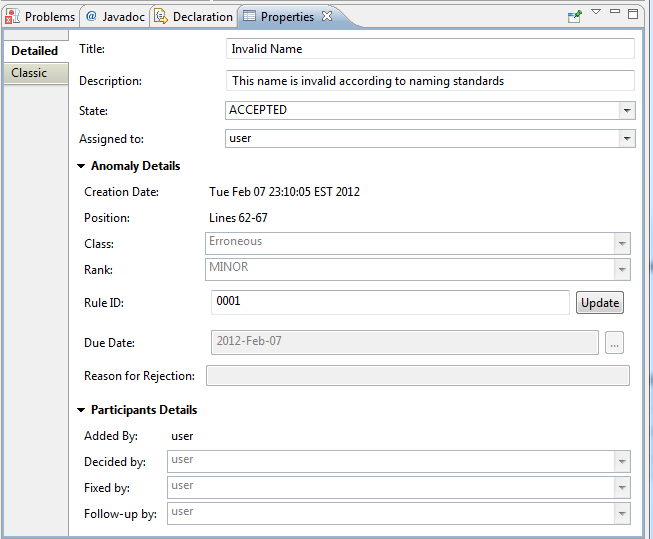
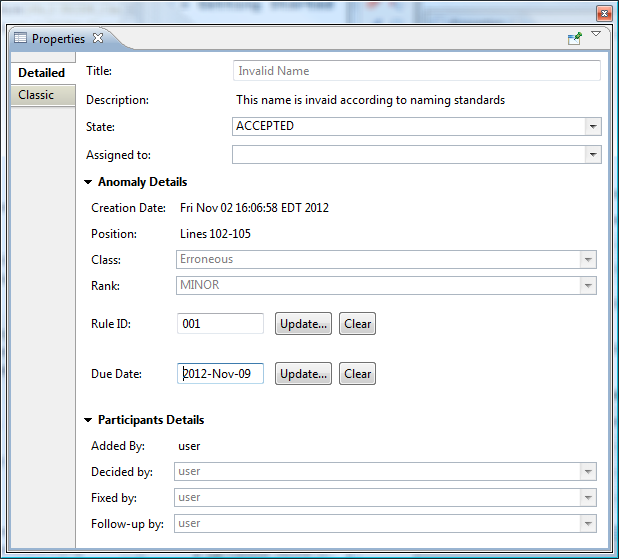
392204: [ui] Need a "Clear" button for the rule set field
Task-Url: https://bugs.eclipse.org/bugs/show_bug.cgi?id=392204

Changed region(s): [[0.0, 0.0, 1.0, 1.0]]

diff --git a/org.eclipse.mylyn.reviews.r4e.ui/src/org/eclipse/mylyn/reviews/r4e/ui/internal/properties/tabbed/AnomalyTabPropertySection.java b/org.eclipse.mylyn.reviews.r4e.ui/src/org/eclipse/mylyn/reviews/r4e/ui/internal/properties/tabbed/AnomalyTabPropertySection.java
@@ -92,6 +92,11 @@ public class AnomalyTabPropertySection extends ModelElementTabPropertySection {
 	 */
 	private static final String PARTICIPANT_DETAILS_SECTION_LABEL = "Participants Details";
 
+	/**
+	 * Field MIN_DATE_TEXT.  Size in pixels of the text for the anomaly due date
+	 */
+	private static final int MIN_DATE_TEXT = 75;
+
 	// ------------------------------------------------------------------------
 	// Member variables
 	// ------------------------------------------------------------------------
@@ -147,14 +152,19 @@ public class AnomalyTabPropertySection extends ModelElementTabPropertySection {
 	protected CCombo fRankCombo = null;
 
 	/**
-	 * Field fRuleId.
+	 * Field fRuleIdText.
 	 */
-	protected Text fRuleId = null;
+	protected Text fRuleIdText = null;
 
 	/**
 	 * Field fRuleButton.
 	 */
 	protected Button fRuleButton = null;
+
+	/**
+	 * Field fClearRuleIdButton.
+	 */
+	protected Button fClearRuleIdButton = null;
 
 	/**
 	 * Field fDateText.
@@ -572,17 +582,27 @@ public class AnomalyTabPropertySection extends ModelElementTabPropertySection {
 		ruleIdLabel.setLayoutData(gridData);
 
 		final Composite ruleComposite = aWidgetFactory.createComposite(anomalyDetailsSectionClient);
-		gridData = new GridData(SWT.FILL, SWT.FILL, true, false);
+		gridData = new GridData(SWT.FILL, SWT.FILL, true, true);
 		gridData.horizontalSpan = 3;
 		ruleComposite.setToolTipText(R4EUIConstants.ANOMALY_RULE_ID_TOOLTIP);
 		ruleComposite.setLayoutData(gridData);
-		ruleComposite.setLayout(new GridLayout(2, false));
+		GridLayout layout = new GridLayout(3, false);
+		layout.marginWidth = 0;
+		ruleComposite.setLayout(layout);
 
-		fRuleId = aWidgetFactory.createText(ruleComposite, "", SWT.NULL);
-		fRuleId.setLayoutData(new GridData(SWT.FILL, SWT.CENTER, true, false));
-		fRuleId.setEditable(false);
-		fRuleButton = aWidgetFactory.createButton(ruleComposite, R4EUIConstants.UPDATE_LABEL, SWT.NONE);
-		fRuleButton.setLayoutData(new GridData(SWT.FILL, SWT.CENTER, false, false));
+		fRuleIdText = aWidgetFactory.createText(ruleComposite, "", SWT.NULL);
+		gridData = new GridData(SWT.CENTER, SWT.CENTER, false, false);
+		//set minimum size
+		gridData.widthHint = MIN_DATE_TEXT;
+		fRuleIdText.setLayoutData(gridData);
+		fRuleIdText.setEditable(false);
+
+		final Composite ruleBottonComposite = aWidgetFactory.createComposite(ruleComposite);
+		ruleBottonComposite.setLayoutData(new GridData(SWT.FILL, SWT.CENTER, true, false));
+		ruleBottonComposite.setLayout(new GridLayout(2, false));
+
+		fRuleButton = aWidgetFactory.createButton(ruleBottonComposite, R4EUIConstants.UPDATE_LABEL, SWT.NONE);
+		fRuleButton.setLayoutData(new GridData(SWT.CENTER, SWT.CENTER, false, false));
 		fRuleButton.addListener(SWT.Selection, new Listener() {
 			public void handleEvent(Event event) {
 				//Modify anomaly
@@ -653,6 +673,28 @@ public class AnomalyTabPropertySection extends ModelElementTabPropertySection {
 			}
 		});
 
+		fClearRuleIdButton = aWidgetFactory.createButton(ruleBottonComposite, R4EUIConstants.CLEAR_LABEL, SWT.NONE);
+		fClearRuleIdButton.setLayoutData(new GridData(SWT.CENTER, SWT.CENTER, false, false));
+		fClearRuleIdButton.addListener(SWT.Selection, new Listener() {
+			public void handleEvent(Event event) {
+				fRuleIdText.setText(""); //$NON-NLS-1$
+				if (!fRefreshInProgress) {
+					try {
+						final String currentUser = R4EUIModelController.getReviewer();
+						final R4EAnomaly modelAnomaly = ((R4EUIAnomalyBasic) fProperties.getElement()).getAnomaly();
+						final Long bookNum = R4EUIModelController.FResourceUpdater.checkOut(modelAnomaly, currentUser);
+						modelAnomaly.setRuleID("");
+						R4EUIModelController.FResourceUpdater.checkIn(bookNum);
+					} catch (ResourceHandlingException e1) {
+						UIUtils.displayResourceErrorDialog(e1);
+					} catch (OutOfSyncException e1) {
+						UIUtils.displaySyncErrorDialog(e1);
+					}
+				}
+				refresh();
+			}
+		});
+
 		//Due Date
 		final CLabel dateLabel = aWidgetFactory.createCLabel(anomalyDetailsSectionClient, R4EUIConstants.DUE_DATE_LABEL);
 		gridData = new GridData(SWT.FILL, SWT.CENTER, false, false);
@@ -661,20 +703,23 @@ public class AnomalyTabPropertySection extends ModelElementTabPropertySection {
 
 		final Composite dateComposite = aWidgetFactory.createComposite(anomalyDetailsSectionClient);
 		gridData = new GridData(SWT.FILL, SWT.FILL, true, true);
-		gridData.horizontalSpan = 2;
+		gridData.horizontalSpan = 3;
 		dateComposite.setToolTipText(R4EUIConstants.ANOMALY_DUE_DATE_TOOLTIP);
 		dateComposite.setLayoutData(gridData);
-		dateComposite.setLayout(new GridLayout(2, false));
+		layout = new GridLayout(2, false);
+		layout.marginWidth = 0;
+		dateComposite.setLayout(layout);
 
-		aWidgetFactory.setBorderStyle(SWT.NULL);
 		fDateText = aWidgetFactory.createText(dateComposite, "", SWT.NULL);
-		fDateText.setLayoutData(new GridData(SWT.CENTER, SWT.CENTER, false, false));
+		gridData = new GridData(SWT.CENTER, SWT.CENTER, false, false);
+		gridData.widthHint = MIN_DATE_TEXT;
+		fDateText.setLayoutData(gridData);
 		fDateText.setEditable(false);
 
 		final Composite dateButtonComposite = aWidgetFactory.createComposite(dateComposite);
 		dateButtonComposite.setLayoutData(new GridData(SWT.FILL, SWT.CENTER, true, true));
 		dateButtonComposite.setToolTipText(R4EUIConstants.ANOMALY_DUE_DATE_TOOLTIP);
-		dateButtonComposite.setLayout(new GridLayout(2, false));
+		dateButtonComposite.setLayout(new GridLayout(3, false));
 
 		fCalendarButton = aWidgetFactory.createButton(dateButtonComposite, R4EUIConstants.UPDATE_LABEL, SWT.NONE);
 		fCalendarButton.setLayoutData(new GridData(SWT.CENTER, SWT.CENTER, false, false));
@@ -952,8 +997,11 @@ public class AnomalyTabPropertySection extends ModelElementTabPropertySection {
 				: rankValue);
 
 		if (null != modelAnomaly.getRuleID()) {
-			fRuleId.setText(modelAnomaly.getRuleID());
+			fRuleIdText.setText(modelAnomaly.getRuleID());
+		} else {
+			fRuleIdText.setText("");
 		}
+
 		if (null != modelAnomaly.getDueDate()) {
 			final SimpleDateFormat dateFormat = new SimpleDateFormat(R4EUIConstants.SIMPLE_DATE_FORMAT);
 			fDateText.setText(dateFormat.format(modelAnomaly.getDueDate()));
@@ -1030,11 +1078,12 @@ public class AnomalyTabPropertySection extends ModelElementTabPropertySection {
 			fDateText.setForeground(UIUtils.DISABLED_FONT_COLOR);
 			fCalendarButton.setEnabled(false);
 			fClearButton.setEnabled(false);
+			fClearRuleIdButton.setEnabled(false);
 			fDecidedByCombo.setEnabled(false);
 			fFixedByCombo.setEnabled(false);
 			fFollowUpByCombo.setEnabled(false);
 			fRuleButton.setEnabled(false);
-			fRuleId.setForeground(UIUtils.DISABLED_FONT_COLOR);
+			fRuleIdText.setForeground(UIUtils.DISABLED_FONT_COLOR);
 			fAssignedToCombo.setEnabled(false);
 			if (fProperties.getElement() instanceof R4EUIAnomalyExtended) {
 				fStateLabel.setVisible(true);
@@ -1061,7 +1110,8 @@ public class AnomalyTabPropertySection extends ModelElementTabPropertySection {
 			fPositionText.setForeground(UIUtils.ENABLED_FONT_COLOR);
 			fDescriptionText.setForeground(UIUtils.ENABLED_FONT_COLOR);
 			fRuleButton.setEnabled(true);
-			fRuleId.setForeground(UIUtils.ENABLED_FONT_COLOR);
+			fClearRuleIdButton.setEnabled(true);
+			fRuleIdText.setForeground(UIUtils.ENABLED_FONT_COLOR);
 			fAssignedToCombo.setEnabled(true);
 
 			final R4EUIAnomalyBasic uiAnomaly = (R4EUIAnomalyBasic) fProperties.getElement();
